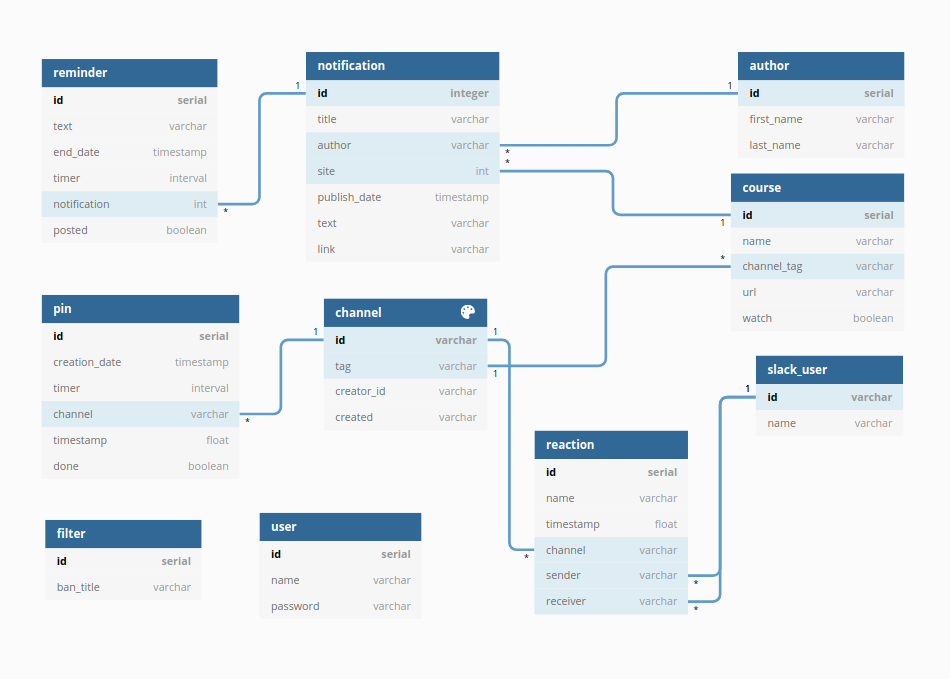
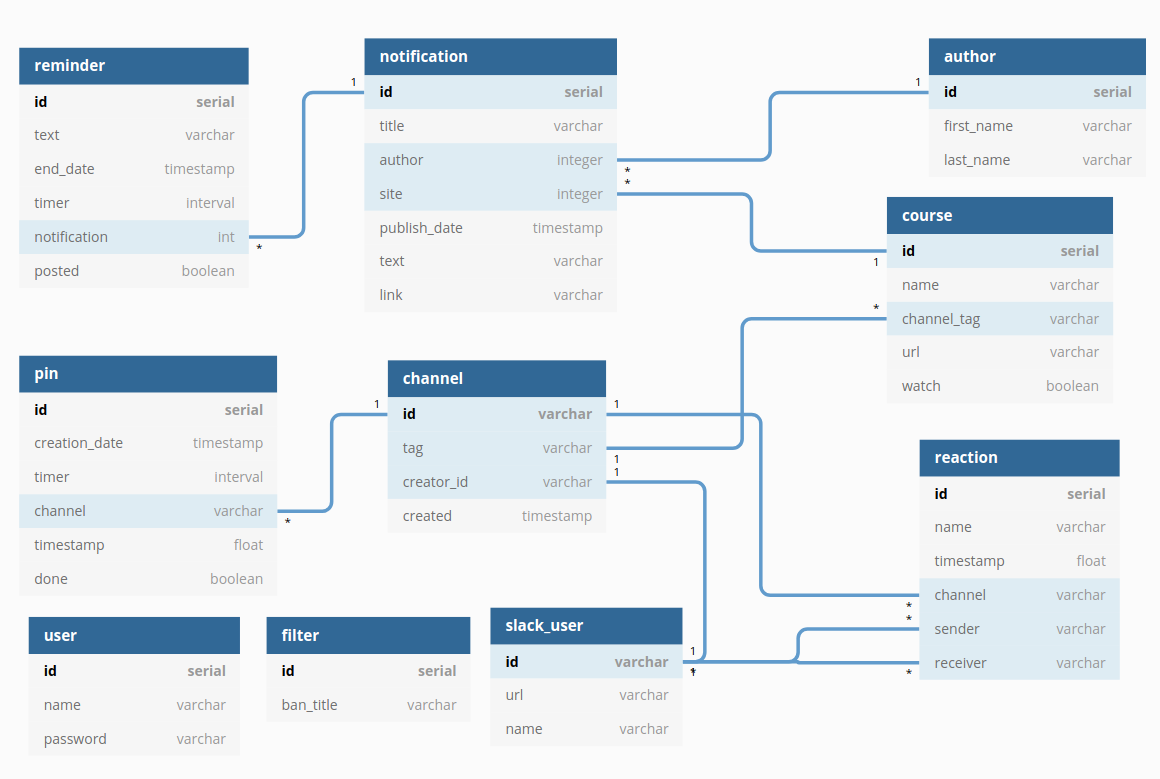
[22] Table descriptions

diff --git a/doc/infobot_doc.md b/doc/infobot_doc.md
@@ -153,8 +153,126 @@ point is located in `start.py` in project root folder. Application is started by
 By default config application is running on `http://localhost:9000` and is connected to test database on port `5432`.
 If config is not default these options can differ.
 
-## Database description
+## Database info
 
 ### Diagram
 
-![alt text](https://github.com/jmajaca/infobot-public/tree/22-local-program-init/doc/images/dbdiagram.png?raw=true)
+![Alt text](images/dbdiagram.png?raw=true "Database diagram")
+
+### Description
+
+#### Notification
+
+This table contains all relevant data of notification that is beaning scrapped.
+
+| name | type | description |
+| :--- | :--- | :---------- |
+| id | SERIAL | unique autogenerated notification identification |
+| title | VARCHAR | title of the notification |
+| author | INTEGER | foreign key that is unique identification of the notification author |
+| site | INTEGER | foreign key that is unique identification of the notification course |
+| publish_date | TIMESTAMP | date and time when the notification was published |
+| text | VARCHAR | text of the notification parsed for the Slack messaging |
+| link | VARCHAR | link to the original notification that was scrapped |
+
+#### Reminder
+
+This table represents autogenerated reminders from scrapped notifications.
+
+| name | type | description |
+| :--- | :--- | :---------- |
+| id | SERIAL | unique autogenerated reminder identification |
+| text | VARCHAR | text of the reminder (one notification paragraph) parsed for the Slack messaging |
+| end_date | TIMESTAMP | date and time when the event in the reminder is meant to happen |
+| timer | INTERVAL | time before `end_date` when reminder is meant to be sent as a Slack message |
+| posted | BOOLEAN | flag that tells if reminder has already been sent |
+
+#### Channel
+
+This table represents Slack channels from selected Slack Workspace.
+
+| name | type | description |
+| :--- | :--- | :---------- |
+| id | VARCHAR | unique channel identification generated by Slack |
+| tag | VARCHAR | channel tag |
+| creator_id | VARCHAR | foreign key that is unique identification of Slack user who created the channel |
+| created | TIMESTAMP | date and time when the channel was created |
+
+#### Course
+
+This table represents a faculty course.
+
+| name | type | description |
+| :--- | :--- | :---------- |
+| id | SERIAL | unique autogenerated course identification |
+| name | VARCHAR | course name |
+| channel_tag | VARCHAR | foreign key that connects course and channel via channel tag |
+| url | VARCHAR | course url on the internet |
+| watch | BOOLEAN | flag that tells if course is on the watchlist, if course is on the watchlist the scraper is going to scrape notifications for the course via url |
+
+#### Author
+
+This table represent an author of the notification that was scrapped.
+
+| name | type | description |
+| :--- | :--- | :---------- |
+| id | SERIAL | unique autogenerated author identification |
+| first_name | VARCHAR | author's first name |
+| last_name | VARCHAR | author's last name |
+
+#### Pin
+
+This table represents a message pin from the Slack Workspace.
+
+| name | type | description |
+| :--- | :--- | :---------- |
+| id | SERIAL | unique autogenerated pin identification |
+| creation_date | TIMESTAMP | date and time when the pin was created |
+| timer | time for how long the message is going to be pinned |
+| notification | INTEGER | foreign key of the notification that was pinned |
+| timestamp | FLOAT | unique message identification represented as [timestamp](https://api.slack.com/messaging/retrieving#individual_messages)
+| done | BOOLEAN | flag that tells if pin is done, if pin is done then it is unpinned |
+
+#### Slack User
+
+This table represents a Slack user from the Slack Workspace.
+
+| name | type | description |
+| :--- | :--- | :---------- |
+| id | VARCHAR | unique user identification generated by Slack |
+| name | VARCHAR | slack username generated from user's e-mail |
+
+#### Reaction
+
+This table represents a reaction from the Slack Workspace.
+
+| name | type | description |
+| :--- | :--- | :---------- |
+| id | SERIAL | unique autogenerated reaction identification |
+| name | VARCHAR | reactions name in the Slack Workspace |
+| timestamp | FLOAT | unique message identification represented as [timestamp](https://api.slack.com/messaging/retrieving#individual_messages) on which the reaction was given
+| sender | VARCHAR | foreign key that is unique identification of Slack user who gave the reaction |
+| receiver | VARCHAR | foreign key that is unique identification of Slack user who received the reaction |
+
+#### User
+
+This table represent a user that can log in on the web application. 
+This table is not to be confused with *Slack User* table.
+
+| name | type | description |
+| :--- | :--- | :---------- |
+| id | SERIAL | unique autogenerated user identification |
+| name | VARCHAR | username |
+| password | VARCHAR | hashed user's password |
+
+#### Filter
+
+> Notice: this table is yet to be clearly defined, as of now it is not used in the application
+
+This table represents filters on scrapping notifications.
+
+| name | type | description |
+| :--- | :--- | :---------- |
+| id | SERIAL | unique autogenerated filter identification |
+| ban_title | VARCHAR | title regex that if matched means that notification is not scrapped |
+
